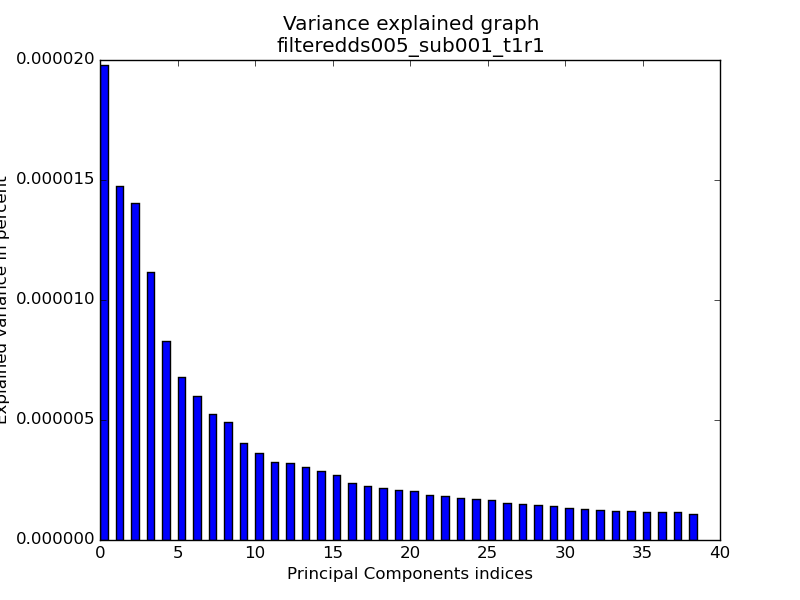
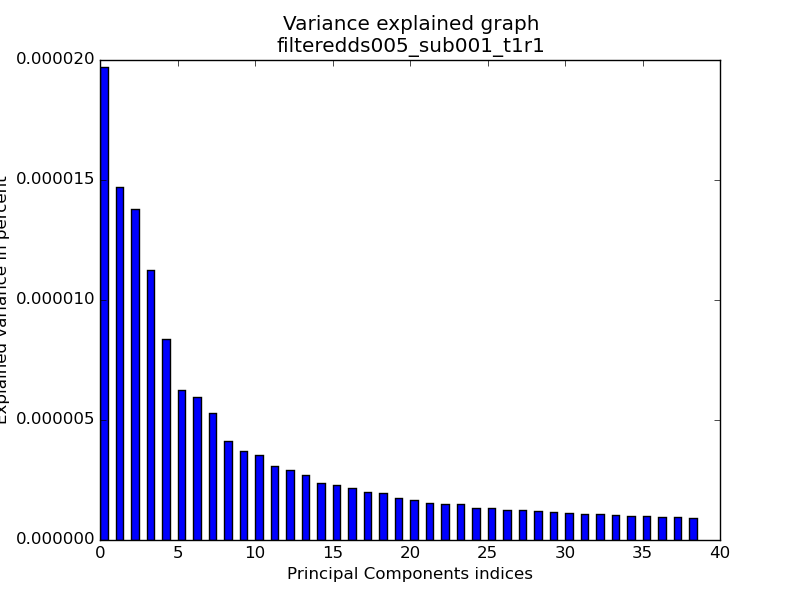
data type fixed ?

diff --git a/code/utils/scripts/noise-pca_filtered_script.py b/code/utils/scripts/noise-pca_filtered_script.py
@@ -2,7 +2,10 @@
 This script is used to design the design matrix for our linear regression.
 We explore the influence of linear and quadratic drifts on the model 
 performance.
-
+Script for the filtered data.
+Run with:
+    python noise-pca_filtered_script.py
+    from this directory
 """
 from __future__ import print_function, division
 import sys, os, pdb
@@ -34,7 +37,7 @@ project_path = '../../../'
 data_path = project_path+'data/ds005/' 
 path_dict = {'data_filtered':{ 
 			      'type' : 'filtered',
-			      'feat' : '.feat/',
+			      'feat' : '.feat',
 			      'bold_img_name' : 'filtered_func_data_mni.nii.gz',
 			      'run_path' : 'model/model001/'
 			     },
@@ -51,7 +54,7 @@ path_dict = {'data_filtered':{
 
 # Run only for subject 1 and 5 - run 1
 run_list = [str(i) for i in range(1,2)]
-subject_list = ['1','5']
+subject_list = ['1', '5']
 
 d_path = path_dict['data_filtered'] #OR original or filtered 
 
@@ -70,6 +73,7 @@ plt.rcParams['image.interpolation'] = 'nearest'
 thres = 375 #From analysis of the histograms   
 # To be used with the filtered data
 mask_path = project_path+'data/mni_icbm152_t1_tal_nlin_asym_09c_mask_2mm.nii'
+template_path = project_path+'data/mni_icbm152_t1_tal_nlin_asym_09c_2mm.nii'
 
 sm = ''
 #sm='not_smooth/'
@@ -92,24 +96,47 @@ for d in dirs:
     if not os.path.exists(d):
         os.makedirs(d)
 
+# Progress bar
+print("\nStarting noise-pca for filtered data analysis\n")
+
 for image_path in images_paths:
     name = image_path[0]
     if d_path['type']=='filtered':
-        in_brain_img = nib.load('../../../'+
-	    'data/ds005/sub001/model/model001/task001_run001.feat/'\
-	    + 'masked_filtered_func_data_mni.nii.gz')
+        #in_brain_img = nib.load('../../../'+
+	#    'data/ds005/sub001/model/model001/task001_run001.feat/'\
+	#    + 'masked_filtered_func_data_mni.nii.gz')
 	# Image shape (91, 109, 91, 240)
-	#in_brain_img = make_mask_filtered_data(image_path[1],mask_path)
-	data = in_brain_img.get_data()
+        md = data_path + 'sub%s/'%(s.zfill(3)) + d_path['run_path'] \
+        + 'task001_run%s%s/masked_%s' %(r.zfill(3),d_path['feat'],\
+        d_path['bold_img_name']) 
+        if not os.path.exists(md):
+            print("Filtering brain image for: ")
+	    print(str(name))
+            in_brain_img = make_mask_filtered_data(image_path[1],mask_path)
+	    print("brain image filtered\n")
+        else:
+	    print("Loading filtered brain image for: ")
+	    print(str(name))
+            in_brain_img = nib.load(md)
+            print("brain image loaded\n")
+        data_int = in_brain_img.get_data()
+	data = data_int.astype(float)
         mean_data = np.mean(data, axis=-1)
-        in_brain_mask = (mean_data - 0.0) < 0.01	
+        template = nib.load(template_path)
+	template_data_int = template.get_data()
+	template_data = template_data_int.astype(float)
 	Transpose = False
+        in_brain_mask = (mean_data - 0.0) < 0.01
+        plt.imshow(plot_mosaic(template_data, transpose=Transpose),\
+				        cmap='gray', alpha=1)
     else:
         img = nib.load(image_path[1])
         data = img.get_data()
         mean_data = np.mean(data, axis=-1)
         in_brain_mask = mean_data > thres
 	Transpose = True
+        plt.contour(plot_mosaic(in_brain_mask, transpose=Transpose), \
+	            cmap='gray' , alpha=1)
     # Smoothing with Gaussian filter
     smooth_data = smoothing(data,1,range(data.shape[-1])) 
 
@@ -120,9 +147,8 @@ for image_path in images_paths:
     # Plotting the voxels in the brain
     plt.imshow(plot_mosaic(mean_data, transpose=Transpose), cmap='gray', alpha=1)
     plt.colorbar()
-    plt.contour(plot_mosaic(in_brain_mask, transpose=Transpose),colors='blue')
     plt.title('In brain voxel mean values' + '\n' +  (d_path['type'] + str(name)))
-    plt.savefig(project_path+'fig/BOLD/%s_mean_voxels_countour.png'\
+    plt.savefig(project_path+'fig/BOLD/%s_mean_voxels.png'\
                 %(d_path['type'] + str(name)))
     #plt.show()
     #plt.clf()
@@ -347,13 +373,13 @@ for image_path in images_paths:
 #		%(name, d_path['type'] + str(name),str(reg_str[k])))
 #        pdb.set_trace() 
 #    pdb.set_trace() 
-
+    plt.close()
+    print("=")
 
 print("======================================")
-print("\n Noise and PCA analysis done")
-print("Design Matrix including drift terms \
-      stored in project_epsilon/txt_output/drifts/ \n\n")
-print("Design Matrix including PCs terms \
-      stored in project_epsilon/txt_output/pca/\n\n")
+print("\n Noise and PCA analysis for filtered data done")
+print("Design Matrix including drift terms stored in project_epsilon/txt_output/drifts/ \n\n")
+print("Design Matrix including PCs terms stored in project_epsilon/txt_output/pca/\n\n")
+print("Mean MRSS models results in  project_epsilon/txt_output/MRSS/ds005filtered_MRSS.json\n\n")
 
 

diff --git a/code/utils/scripts/noise-pca_script.py b/code/utils/scripts/noise-pca_script.py
@@ -2,8 +2,12 @@
 This script is used to design the design matrix for our linear regression.
 We explore the influence of linear and quadratic drifts on the model 
 performance.
-
+Script for the raw data.
+Run with:
+    python noise-pca_script.py
+    from this directory
 """
+
 from __future__ import print_function, division
 import sys, os, pdb
 from scipy import ndimage
@@ -51,7 +55,7 @@ path_dict = {'data_filtered':{
 
 # Run only for subject 1 and 5 - run 1
 run_list = [str(i) for i in range(1,2)]
-subject_list = ['1','5']
+subject_list = ['1', '5']
 
 d_path = path_dict['data_original'] #OR original or filtered 
 
@@ -91,6 +95,7 @@ dirs = [project_path+'fig/',\
 for d in dirs:
     if not os.path.exists(d):
         os.makedirs(d)
+print{"Starting noise-pca for the raw data analysis\n")
 
 for image_path in images_paths:
     name = image_path[0]
@@ -100,13 +105,15 @@ for image_path in images_paths:
 	    + 'masked_filtered_func_data_mni.nii.gz')
 	# Image shape (91, 109, 91, 240)
 	#in_brain_img = make_mask_filtered_data(image_path[1],mask_path)
-	data = in_brain_img.get_data()
+	data_int = in_brain_img.get_data()
+        data = data_int.astype(float)
         mean_data = np.mean(data, axis=-1)
         in_brain_mask = (mean_data - 0.0) < 0.01	
 	Transpose = False
     else:
         img = nib.load(image_path[1])
-        data = img.get_data()
+        data_int = img.get_data()
+	data = data_int.astype(float)
         mean_data = np.mean(data, axis=-1)
         in_brain_mask = mean_data > thres
 	Transpose = True
@@ -350,9 +357,8 @@ for image_path in images_paths:
 
 print("======================================")
 print("\n Noise and PCA analysis done")
-print("Design Matrix including drift terms \
-      stored in project_epsilon/txt_output/drifts/ \n\n")
-print("Design Matrix including PCs terms \
-      stored in project_epsilon/txt_output/pca/\n\n")
+print("Design Matrix including drift terms stored in project_epsilon/txt_output/drifts/ \n\n")
+print("Design Matrix including PCs terms stored in project_epsilon/txt_output/pca/\n\n")
+print("Mean MRSS models results in project_epsilon/txt_output/MRSS/ds005_MRSS.json\n\n")
 
 

diff --git a/code/utils/scripts/mask_filtered_data.py b/code/utils/scripts/mask_filtered_data.py
@@ -1,4 +1,4 @@
-"""mask_functions.py
+"""mask_filtered_data.py
 
 A collection of functions to make masks on data.
 See test_* functions in this directory for nose tests
@@ -28,7 +28,8 @@ def make_bool_mask(mask_path):
         the bool array created from the binary array
     """
     mask_img = nib.load(mask_path)
-    mask_data = mask_img.get_data()
+    mask_data_int = mask_img.get_data()
+    mask_data = mask_img_int.astype(float)
     mask_bool = mask_data == 1
     return mask_bool
 
@@ -52,8 +53,10 @@ def make_mask_filtered_data(func_path, mask_path):
     """
     func_img = nib.load(func_path)
     mask_img = nib.load(mask_path)
-    mask = mask_img.get_data()
-    func_data = func_img.get_data()
+    mask_int = mask_img.get_data()
+    func_data_int = func_img.get_data()
+    mask = mask_int.astype(float)
+    func_data = func_data_int.astype(float)
     # Make data 4D to prepare for "broadcasting"
     mask = np.reshape(mask, mask.shape + (1,))
     # "Broadcasting" expands the final length 1 dimension to match the func data

diff --git a/code/utils/scripts/plot_mosaic.py b/code/utils/scripts/plot_mosaic.py
@@ -48,11 +48,13 @@ if __name__=='__main__':
     #'../../../data/ds005/sub001/BOLD/task001_run001/bold.nii.gz') 
     template = nib.load(project_path+\
                'data/mni_icbm152_t1_tal_nlin_asym_09c_2mm.nii')
-    template_data = template.get_data()
+    template_data_int = template.get_data()
+    template_data = template_data_int.astype(float)
     img = nib.load(project_path+\
          'data/ds005/sub001/model/model001/task001_run001.feat/' + \
 	 'masked_filtered_func_data_mni.nii.gz')
-    img_data = img.get_data()
+    img_data_int = img.get_data()
+    img_data = img_data_int.astype(float) 
     mean_data = np.mean(img_data, axis=-1)
     plt.title('In brain voxels - mean values')
     plt.imshow(plot_mosaic(template_data, transpose=False), cmap='gray', alpha=1)

diff --git a/code/utils/scripts/hist-outliers_script.py b/code/utils/scripts/hist-outliers_script.py
@@ -47,7 +47,7 @@ for d in dirs:
 dir_path = project_path+'data/ds005/'
 # Uncomment to run all subjects
 #subject_list = [str(i) for i in range(1,17)]
-subject_list = ['1','5']
+subject_list = ['1', '5']
 
 # Choose run here (1,2 and/or 3)
 run_list = [str(i) for i in range(1,2)]
@@ -61,7 +61,8 @@ images_paths = [('ds005_sub' + s.zfill(3) + '_t1r' + r, \
 for image_path in images_paths:
     name = image_path[0]
     img = nib.load(image_path[1])
-    data = img.get_data()
+    data_int = img.get_data()
+    data = data_int.astype(float)
     vol_shape = data.shape[-1]
     mean_vol = np.mean(data, axis=-1)
 #    Take the mean value over time and plot an histogram

diff --git a/code/utils/scripts/eda.py b/code/utils/scripts/eda.py
@@ -36,7 +36,7 @@ path_dict = {'data_filtered':{
 
 # Run only for subject 1 and 5 - run 1
 run_list = [str(i) for i in range(1,2)]
-subject_list = ['1']
+subject_list = ['1','5']
 
 # set gray colormap and nearest neighbor interpolation by default
 plt.rcParams['image.cmap'] = 'gray'
@@ -101,4 +101,3 @@ for dat in path_dict:
 sys.stdout.write("======================================\n")
 sys.stdout.write("EDA analysis done\n")
 sys.stdout.write("Mosaic plots in project_epsilon/fig/BOLD/ \n")
-sys.stdout.write("Histogram plots in project_epsilon/fig/histograms/ \n\n")
